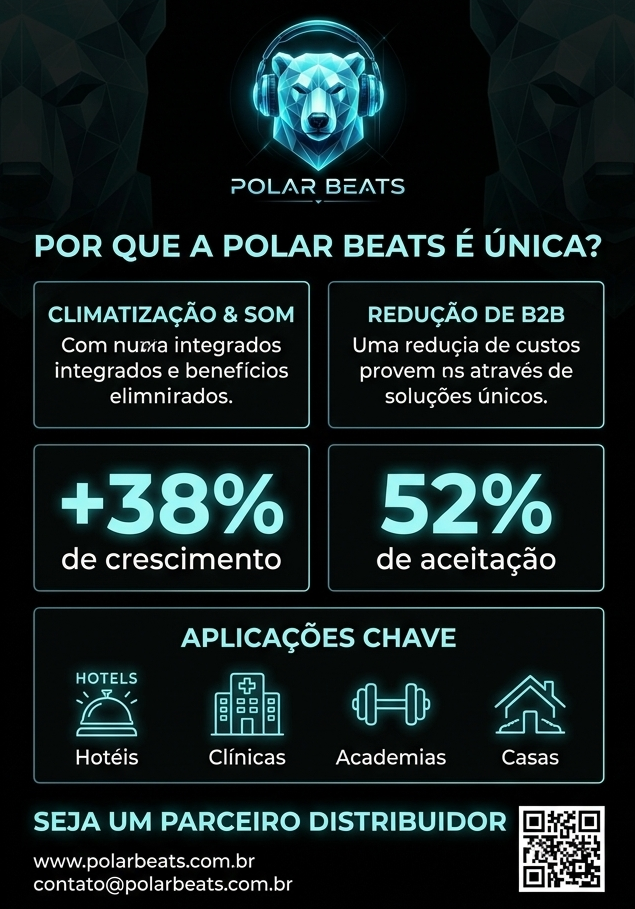
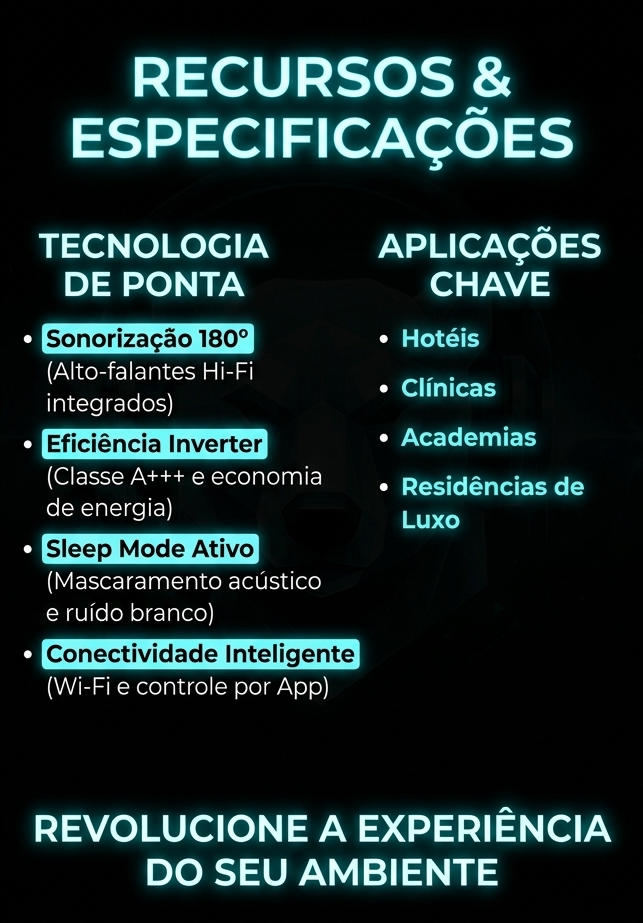
design: update flyer back-side layout with custom specs and remove QR/contact duplication

diff --git a/folheto.html b/folheto.html
@@ -457,11 +457,8 @@
           <span class="qr-subtitle">Economia</span>
         </div>
       </div>
-    </div>
-  </div>
-
-  <!-- Verso (Back) -->
-  <div class="flyer-page">
+    <!-- Verso (Back) -->
+  <div class="flyer-page" style="justify-content: space-between;">
     <div class="wave-glow"></div>
 
     <!-- Header / Brand Slogan -->
@@ -469,83 +466,63 @@
       <div class="logo-container">
         <img src="logo.png" alt="Polar Beats Logo" class="brand-logo">
       </div>
-      <h2 class="slogan" style="font-size: 12px; margin-top: 4px;">POR QUE A POLAR BEATS É ÚNICA?</h2>
+      <h2 class="slogan" style="font-size: 13px; margin-top: 4px; color: var(--accent-cyan); text-shadow: 0 0 10px var(--accent-cyan-glow);">RECURSOS & ESPECIFICAÇÕES</h2>
     </div>
 
     <!-- Verso Main Content -->
-    <div class="verso-content">
-      <!-- Section 1: Diferenciais -->
-      <div class="bullets-container">
-        <div class="bullet-card">
-          <h4>Duas Soluções em Um</h4>
-          <p>Integra climatização Inverter de alta eficiência e sonorização premium de 180° em uma única instalação elegante e unificada.</p>
-        </div>
-        <div class="bullet-card">
-          <h4>Redução de Custos B2B</h4>
-          <p>Elimina gastos com caixas acústicas adicionais, fiação de áudio embutida e amplificadores de parede física.</p>
-        </div>
-        <div class="bullet-card">
-          <h4>Eficiência de Espaço</h4>
-          <p>Zero poluição visual nas paredes. Um design clean e minimalista que valoriza qualquer projeto arquitetônico.</p>
-        </div>
-      </div>
-
-      <!-- Section 2: Dados de Mercado -->
+    <div class="verso-content" style="gap: 14px;">
+      <!-- Section 1: Tecnologia de Ponta -->
       <div>
-        <h3 class="section-title">Dados de Mercado (RT Soluções 2025)</h3>
-        <div class="stats-row">
-          <div class="stat-card">
-            <span class="stat-number">+38%</span>
-            <p class="stat-desc">Crescimento nas vendas de ar-condicionado no Brasil nos últimos anos.</p>
+        <h3 class="section-title" style="color: var(--accent-cyan);">Tecnologia de Ponta</h3>
+        <div class="bullets-container" style="gap: 8px;">
+          <div class="bullet-card" style="border-color: rgba(93, 209, 255, 0.15);">
+            <h4 style="color: var(--accent-cyan);">❄ Sonorização 180°</h4>
+            <p>Alto-falantes de alta fidelidade integrados nas laterais, oferecendo som potente e dispersão acústica envolvente de 180°.</p>
           </div>
-          <div class="stat-card">
-            <span class="stat-number">52%</span>
-            <p class="stat-desc">De aceitação imediata do conceito integrado pelo público consumidor.</p>
+          <div class="bullet-card" style="border-color: rgba(93, 209, 255, 0.15);">
+            <h4 style="color: var(--accent-cyan);">⚡ Eficiência Inverter</h4>
+            <p>Compressor de última geração Classe A+++ que garante refrigeração ultra-silenciosa com máxima economia energética.</p>
+          </div>
+          <div class="bullet-card" style="border-color: rgba(93, 209, 255, 0.15);">
+            <h4 style="color: var(--accent-cyan);">💤 Sleep Mode Ativo</h4>
+            <p>Mascaramento acústico inteligente com ruído branco integrado para promover relaxamento profundo e noites de sono perfeitas.</p>
+          </div>
+          <div class="bullet-card" style="border-color: rgba(93, 209, 255, 0.15);">
+            <h4 style="color: var(--accent-cyan);">📱 Conexão Inteligente</h4>
+            <p>Conectividade Wi-Fi para gerenciamento de áudio e clima por aplicativo exclusivo, compatível com Alexa e Google Home.</p>
           </div>
         </div>
       </div>
 
-      <!-- Section 3: Aplicações Chave -->
+      <!-- Section 2: Aplicações Chave -->
       <div>
-        <h3 class="section-title">Aplicações Comerciais</h3>
-        <div class="apps-grid">
-          <div class="app-card">
-            <span class="app-icon">🏨</span>
-            <span class="app-name">Hotéis</span>
+        <h3 class="section-title" style="color: var(--accent-cyan);">Aplicações Chave</h3>
+        <div class="apps-grid" style="gap: 10px;">
+          <div class="app-card" style="border-color: rgba(93, 209, 255, 0.12); background: rgba(255, 255, 255, 0.015);">
+            <span class="app-icon" style="font-size: 16px;">🏨</span>
+            <span class="app-name" style="color: var(--accent-cyan); font-size: 8px;">Hotéis</span>
           </div>
-          <div class="app-card">
-            <span class="app-icon">🏥</span>
-            <span class="app-name">Clínicas</span>
+          <div class="app-card" style="border-color: rgba(93, 209, 255, 0.12); background: rgba(255, 255, 255, 0.015);">
+            <span class="app-icon" style="font-size: 16px;">🏥</span>
+            <span class="app-name" style="color: var(--accent-cyan); font-size: 8px;">Clínicas</span>
           </div>
-          <div class="app-card">
-            <span class="app-icon">🏋</span>
-            <span class="app-name">Academias</span>
+          <div class="app-card" style="border-color: rgba(93, 209, 255, 0.12); background: rgba(255, 255, 255, 0.015);">
+            <span class="app-icon" style="font-size: 16px;">🏋</span>
+            <span class="app-name" style="color: var(--accent-cyan); font-size: 8px;">Academias</span>
           </div>
-          <div class="app-card">
-            <span class="app-icon">🏡</span>
-            <span class="app-name">Residências</span>
+          <div class="app-card" style="border-color: rgba(93, 209, 255, 0.12); background: rgba(255, 255, 255, 0.015);">
+            <span class="app-icon" style="font-size: 16px;">🏡</span>
+            <span class="app-name" style="color: var(--accent-cyan); font-size: 8px;">Residências</span>
           </div>
         </div>
       </div>
     </div>
 
-    <!-- Footer / Contacts & QR -->
-    <div class="footer-section">
-      <div class="footer-left">
-        <span class="cta-text" style="font-size: 8.5px; color: #fff;">SEJA UM DISTRIBUIDOR OU INVESTIDOR PARCEIRO</span>
-        <div class="contact-info" style="font-size: 8px; margin-top: 2px;">
-          <p>Agende uma reunião estratégica para fase de pré-reserva e produção.</p>
-          <p><strong>www.polarbeats.com.br</strong> · contato@polarbeats.com.br</p>
-        </div>
-      </div>
-
-      <div class="qr-container" style="padding: 4px 8px;">
-        <img src="https://api.qrserver.com/v1/create-qr-code/?size=150x150&data=https://www.polarbeats.com.br" alt="QR Code" class="qr-code" style="width: 36px; height: 36px;">
-        <div class="qr-text-box">
-          <span class="qr-title" style="font-size: 7.5px;">Seja um</span>
-          <span class="qr-subtitle" style="font-size: 6.5px;">Parceiro</span>
-        </div>
-      </div>
+    <!-- Footer / Closing Call to Action -->
+    <div class="footer-section" style="justify-content: center; border-top: 1px solid rgba(93, 209, 255, 0.15); padding: 12px 0 0 0;">
+      <span class="cta-text" style="font-family: 'Syne', sans-serif; font-size: 10.5px; font-weight: 800; color: var(--accent-cyan); text-shadow: 0 0 8px var(--accent-cyan-glow); letter-spacing: 0.05em; text-align: center;">
+        REVOLUCIONE A EXPERIÊNCIA DO SEU AMBIENTE
+      </span>
     </div>
   </div>
 
